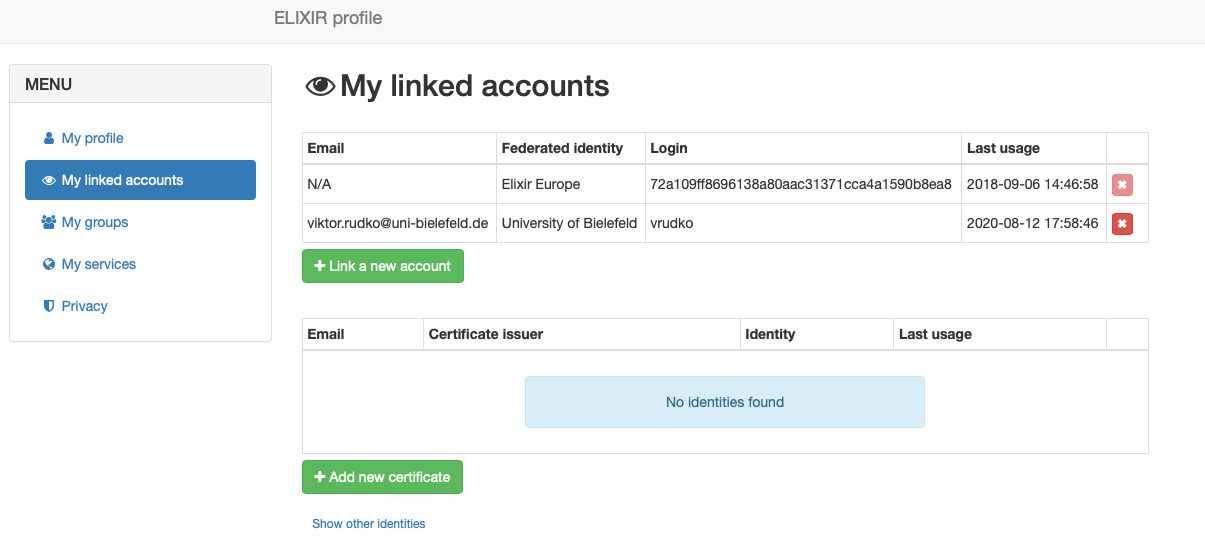
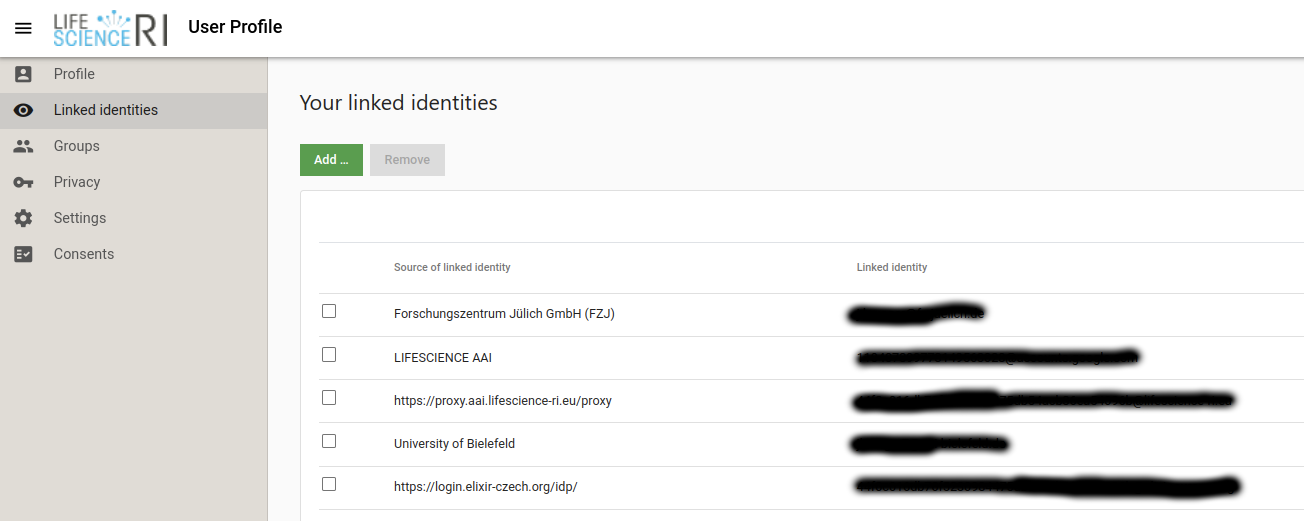
Update https://cloud.denbi.de/wiki/portal/user_information/#link-accounts-to-elixir

diff --git a/wiki/portal/user_information.md b/wiki/portal/user_information.md
@@ -26,27 +26,28 @@ The public key part will be automatically set for you and you are able to downlo
 If you do not save the private key generated for you, it will be irretrievably lost. We do not save the generated private keys for you. If you have cancelled or forgotten to download the key, you must repeat the process with a new key.
 Please note that you will have to change the permissions of the key file as written in the notification you just confirmed.
 
-### Link Accounts to ELIXIR
+### Link Accounts to LifeScience (formerly Elixir)
 
-On the profile page you can link multiple accounts to your existing ELIXIR-account.
-By clicking on the button `Link accounts` you will be redirected to the [ELIXIR profile-page](https://perun.elixir-czech.cz/fed/profile/#identities "ELIXIR profile"). If you are not yet logged in to ELIXIR, please do so to be redirected to the page mentioned. Click on `My linked accounts` in the menu to see and manage your accounts linked to your ELIXIR account. 
-To link another account click on `Link a new account` below `My linked accounts`. 
+On your [profile page](https://profile.aai.lifescience-ri.eu/profile/identities) you can link multiple accounts to your existing LifeScience-account.
+If you are not yet logged in to LifeScience, please do so to be redirected to the page mentioned. 
+Click on `Linkes identities` in the menu to see and manage your accounts linked to your LifeScience account. 
+To link another account click on `Add` below `Linked identities`. 
 ![accountlinkingpage](img/linked_accounts.png)
 
-You will be redirected to the ELIXIR login-page. 
+You will be redirected to the LifeScience login-page. 
 
-![elixirlogin](img/elixir_login.png)
+![elixirlogin](img/lifescience_login.png)
 
-Log in to the account that you want to link to your ELIXIR account. In the example shown this is done with ORCID.
+Log in to the account that you want to link to your LifeScience account. In the example shown this is done with ORCID.
 After you have signed up for the desired service, you will usually be asked to confirm/authorize the linking of the account.
  
 ![authorizeorcid](img/authorize_linking.png)
 
-Once this is done, you will be redirected to the ELIXIR profile page, where you will receive a confirmation of the successful linking of your account. 
+Once this is done, you will be redirected to the LifeScience profile page, where you will receive a confirmation of the successful linking of your account. 
 
 ![confirmlinking](img/success_linking.png)
 
-To remove a linked account click on the red button next to the listed account.
+To remove a linked account click on `Remove` below `Linked identities`.
 
 ### Newsletter
 
